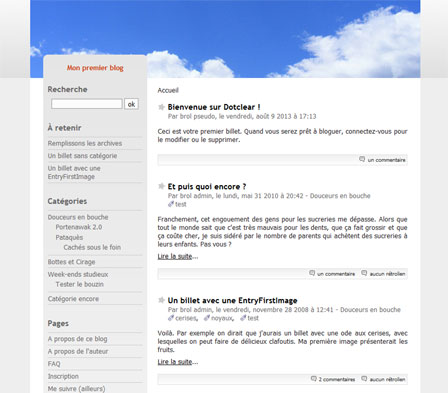
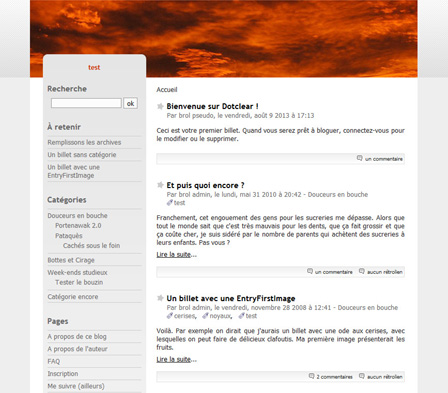
v1.1
cf changelog

diff --git a/tpl/archive_month.html b/tpl/archive_month.html
@@ -1,50 +1,37 @@
-<!DOCTYPE html PUBLIC "-//W3C//DTD XHTML 1.0 Strict//EN"
-"http://www.w3.org/TR/xhtml1/DTD/xhtml1-strict.dtd">
-<html xmlns="http://www.w3.org/1999/xhtml" xml:lang="{{tpl:BlogLanguage}}" lang="{{tpl:BlogLanguage}}">
-<head>
-  <meta http-equiv="Content-Type" content="text/html; charset=UTF-8" />
+{{tpl:extends parent="__layout.html"}}
 
-  <meta name="ROBOTS" content="{{tpl:BlogMetaRobots robots="NOINDEX"}}" />
+<tpl:Block name="head-title">
+	<title>{{tpl:lang Archives}} - {{tpl:ArchiveDate}} - {{tpl:BlogName encode_html="1"}}</title>
+</tpl:Block>
 
-  <title>{{tpl:lang Archives}} - {{tpl:ArchiveDate}} - {{tpl:BlogName encode_html="1"}}</title>
-  <meta name="copyright" content="{{tpl:BlogCopyrightNotice encode_html="1"}}" />
-  <meta name="author" content="{{tpl:BlogEditor encode_html="1"}}" />
-  <meta name="date" scheme="W3CDTF" content="{{tpl:BlogUpdateDate iso8601="1"}}" />
+<tpl:Block name="meta-robots">
+	<meta name="ROBOTS" content="{{tpl:BlogMetaRobots robots="NOINDEX"}}" />
+</tpl:Block>
 
-  <link rel="schema.dc" href="http://purl.org/dc/elements/1.1/" />
-  <meta name="dc.title" lang="{{tpl:BlogLanguage}}" content="{{tpl:lang Archives}} - {{tpl:ArchiveDate}} - {{tpl:BlogName encode_html="1"}}" />
-  <meta name="dc.language" content="{{tpl:BlogLanguage}}" />
-  <meta name="dc.publisher" content="{{tpl:BlogEditor encode_html="1"}}" />
-  <meta name="dc.rights" content="{{tpl:BlogCopyrightNotice encode_html="1"}}" />
-  <meta name="dc.date" scheme="W3CDTF" content="{{tpl:BlogUpdateDate iso8601="1"}}" />
-  <meta name="dc.type" content="text" />
-  <meta name="dc.format" content="text/html" />
+<tpl:Block name="dc-entry">
+	<meta property="dc.title" lang="{{tpl:BlogLanguage}}" content="{{tpl:lang Archives}} - {{tpl:ArchiveDate}} - {{tpl:BlogName encode_html="1"}}" />
+	<meta property="dc.language" content="{{tpl:BlogLanguage}}" />
+	<meta property="dc.date" content="{{tpl:BlogUpdateDate iso8601="1"}}" />
+</tpl:Block>
 
-  <link rel="top" href="{{tpl:BlogURL}}" title="{{tpl:lang Home}}" />
-  <link rel="up" href="{{tpl:BlogArchiveURL}}" title="{{tpl:lang Archives}}" />
-  <link rel="contents" href="{{tpl:BlogArchiveURL}}" title="{{tpl:lang Archives}}" />
+<tpl:Block name="head-linkrel">
+	<link rel="top" href="{{tpl:BlogURL}}" title="{{tpl:lang Home}}" />
+	<link rel="up" href="{{tpl:BlogArchiveURL}}" title="{{tpl:lang Archives}}" />
+	<link rel="contents" href="{{tpl:BlogArchiveURL}}" title="{{tpl:lang Archives}}" />
 
-  <tpl:ArchiveNext><link rel="next" href="{{tpl:ArchiveURL}}"
-  title="{{tpl:ArchiveDate encode_html="1"}}" /></tpl:ArchiveNext>
-  <tpl:ArchivePrevious><link rel="prev" href="{{tpl:ArchiveURL}}"
-  title="{{tpl:ArchiveDate encode_html="1"}}" /></tpl:ArchivePrevious>
+	<tpl:ArchiveNext><link rel="next" href="{{tpl:ArchiveURL}}"
+	title="{{tpl:ArchiveDate encode_html="1"}}" /></tpl:ArchiveNext>
+	<tpl:ArchivePrevious><link rel="prev" href="{{tpl:ArchiveURL}}"
+	title="{{tpl:ArchiveDate encode_html="1"}}" /></tpl:ArchivePrevious>
 
-  <tpl:Entries no_content="1">
-  <link rel="chapter" href="{{tpl:EntryURL}}" title="{{tpl:EntryTitle encode_html="1"}}" />
-  </tpl:Entries>
+	<tpl:Entries no_content="1">
+		<link rel="chapter" href="{{tpl:EntryURL}}" title="{{tpl:EntryTitle encode_html="1"}}" />
+	</tpl:Entries>
+</tpl:Block>
 
-  {{tpl:include src="_head.html"}}
-</head>
+<tpl:Block name="body-tag"><body class="dc-archive-month"></tpl:Block>
 
-<body class="dc-archive-month">
-<div id="page">
-{{tpl:include src="_top.html"}}
-
-<div id="wrapper">
-
-<div id="main">
-  <div id="content">
-  
+<tpl:Block name="main-content">
    <div id="content-info">
     <p id="navlinks">
     <tpl:ArchivePrevious><a href="{{tpl:ArchiveURL}}" class="prev">&#171; {{tpl:ArchiveDate encode_html="1"}}</a>
@@ -57,30 +44,11 @@
   </div>
   
   <tpl:Entries no_content="1">
-    <ul id="p{{tpl:EntryID}}" class="arch-post" lang="{{tpl:EntryLang}}" xml:lang="{{tpl:EntryLang}}">
-      <li class="arch-title"><span class="date-number">{{tpl:EntryDate format="%d"}} :: </span><a href="{{tpl:EntryURL}}" title="{{tpl:lang Continue reading}} {{tpl:EntryTitle encode_html="1"}}">{{tpl:EntryTitle encode_html="1"}}</a></li>
+    <ul id="p{{tpl:EntryID}}" class="arch-post" lang="{{tpl:EntryLang}}">
+      <li class="arch-title"><span class="date-number">{{tpl:EntryDate format="%d"}} :: </span><a href="{{tpl:EntryURL}}" title="{{tpl:lang Read}} {{tpl:EntryTitle encode_html="1"}}">{{tpl:EntryTitle encode_html="1"}}</a></li>
       <li class="arch-info">{{tpl:lang By}} {{tpl:EntryAuthorLink}}<tpl:EntryIf has_category="1">, {{tpl:lang in}} {{tpl:EntryCategory encode_html="1"}}</tpl:EntryIf></li>
       <tpl:EntryTags><tpl:TagsHeader><li></tpl:TagsHeader><span class="arch-tag">{{tpl:TagID}}</span><tpl:TagsFooter></li></tpl:TagsFooter></tpl:EntryTags>
       <li class="arch-info-co"><tpl:EntryIf show_comments="1">{{tpl:EntryCommentCount}}</tpl:EntryIf><tpl:EntryIf show_pings="1"> - {{tpl:EntryTrackbackCount}}</tpl:EntryIf></li>
     </ul>
   </tpl:Entries>
-
-</div>
-</div> <!-- End #main -->
-
-<div id="sidebar">
-  <div id="blognav">
-    {{tpl:Widgets type="nav"}}
-  </div> <!-- End #blognav -->
-  
-  <div id="blogextra">
-    {{tpl:Widgets type="extra"}}
-  </div> <!-- End #blogextra -->
-</div>
-
-</div> <!-- End #wrapper -->
-
-{{tpl:include src="_footer.html"}}
-</div> <!-- End #page -->
-</body>
-</html>
+</tpl:Block>

diff --git a/tpl/archive_day.html b/tpl/archive_day.html
@@ -1,50 +1,37 @@
-<!DOCTYPE html PUBLIC "-//W3C//DTD XHTML 1.0 Strict//EN"
-	"http://www.w3.org/TR/xhtml1/DTD/xhtml1-strict.dtd">
-<html xmlns="http://www.w3.org/1999/xhtml" xml:lang="{{tpl:BlogLanguage}}" lang="{{tpl:BlogLanguage}}">
-<head>
-	<meta http-equiv="Content-Type" content="text/html; charset=UTF-8" />
-	<meta name="ROBOTS" content="{{tpl:BlogMetaRobots robots="NOINDEX"}}" />
+{{tpl:extends parent="__layout.html"}}
 
+<tpl:Block name="head-title">
 	<title>{{tpl:lang Archives}} - {{tpl:ArchiveDate}} - {{tpl:BlogName encode_html="1"}}</title>
-	<meta name="copyright" content="{{tpl:BlogCopyrightNotice encode_html="1"}}" />
-	<meta name="author" content="{{tpl:BlogEditor encode_html="1"}}" />
-	<meta name="date" scheme="W3CDTF" content="{{tpl:BlogUpdateDate iso8601="1"}}" />
+</tpl:Block>
 
-	<link rel="schema.dc" href="http://purl.org/dc/elements/1.1/" />
-	<meta name="dc.title" lang="{{tpl:BlogLanguage}}" content="{{tpl:lang Archives}} - {{tpl:ArchiveDate}} - {{tpl:BlogName encode_html="1"}}" />
-	<meta name="dc.language" content="{{tpl:BlogLanguage}}" />
-	<meta name="dc.publisher" content="{{tpl:BlogEditor encode_html="1"}}" />
-	<meta name="dc.rights" content="{{tpl:BlogCopyrightNotice encode_html="1"}}" />
-	<meta name="dc.date" scheme="W3CDTF" content="{{tpl:BlogUpdateDate iso8601="1"}}" />
-	<meta name="dc.type" content="text" />
-	<meta name="dc.format" content="text/html" />
+<tpl:Block name="meta-robots">
+	<meta name="ROBOTS" content="{{tpl:BlogMetaRobots robots="NOINDEX"}}" />
+</tpl:Block>
 
+<tpl:Block name="dc-entry">
+	<meta property="dc.title" lang="{{tpl:BlogLanguage}}" content="{{tpl:lang Archives}} - {{tpl:ArchiveDate}} - {{tpl:BlogName encode_html="1"}}" />
+	<meta property="dc.language" content="{{tpl:BlogLanguage}}" />
+	<meta property="dc.date" content="{{tpl:BlogUpdateDate iso8601="1"}}" />
+</tpl:Block>
+
+<tpl:Block name="head-linkrel">
 	<link rel="top" href="{{tpl:BlogURL}}" title="{{tpl:lang Home}}" />
 	<link rel="up" href="{{tpl:BlogArchiveURL}}" title="{{tpl:lang Archives}}" />
 	<link rel="contents" href="{{tpl:BlogArchiveURL}}" title="{{tpl:lang Archives}}" />
 
-<tpl:ArchiveNext>
-	<link rel="next" href="{{tpl:ArchiveURL}}" title="{{tpl:ArchiveDate encode_html="1"}}" />
-</tpl:ArchiveNext>
-<tpl:ArchivePrevious>
-	<link rel="previous" href="{{tpl:ArchiveURL}}" title="{{tpl:ArchiveDate encode_html="1"}}" />
-</tpl:ArchivePrevious>
-<tpl:Entries no_content="1">
-	<link rel="chapter" href="{{tpl:EntryURL}}" title="{{tpl:EntryTitle encode_html="1"}}" />
-</tpl:Entries>
+	<tpl:ArchiveNext><link rel="next" href="{{tpl:ArchiveURL}}"
+	title="{{tpl:ArchiveDate encode_html="1"}}" /></tpl:ArchiveNext>
+	<tpl:ArchivePrevious><link rel="prev" href="{{tpl:ArchiveURL}}"
+	title="{{tpl:ArchiveDate encode_html="1"}}" /></tpl:ArchivePrevious>
 
-{{tpl:include src="_head.html"}}
-</head>
+	<tpl:Entries no_content="1">
+		<link rel="chapter" href="{{tpl:EntryURL}}" title="{{tpl:EntryTitle encode_html="1"}}" />
+	</tpl:Entries>
+</tpl:Block>
 
-<body class="dc-archive-day">
-<div id="page">
-{{tpl:include src="_top.html"}}
+<tpl:Block name="body-tag"><body class="dc-archive-day"></tpl:Block>
 
-<div id="wrapper">
-
-<div id="main">
-  <div id="content">
-  
+<tpl:Block name="main-content">
   <div id="content-info">
     <p id="navlinks">
     <tpl:ArchivePrevious><a href="{{tpl:ArchiveURL}}" class="prev" title="{{tpl:ArchiveDate encode_html="1"}}">&#171; {{tpl:ArchiveDate encode_html="1"}}</a>
@@ -59,7 +46,7 @@
   <tpl:Entries>
     <div class="post {{tpl:EntryIfOdd}} {{tpl:EntryIfFirst}}">
     
-    <h2 id="p{{tpl:EntryID}}" class="post-title" lang="{{tpl:EntryLang}}" xml:lang="{{tpl:EntryLang}}"><a
+    <h2 id="p{{tpl:EntryID}}" class="post-title" lang="{{tpl:EntryLang}}"><a
     href="{{tpl:EntryURL}}">{{tpl:EntryTitle encode_html="1"}}</a></h2>
     
     <p class="post-info">{{tpl:lang By}} {{tpl:EntryAuthorLink}}
@@ -83,7 +70,7 @@
       <div class="post-content">{{tpl:EntryExcerpt}}</div>
       <p class="read-it"><a href="{{tpl:EntryURL}}"
       title="{{tpl:lang Continue reading}} {{tpl:EntryTitle encode_html="1"}}">{{tpl:lang Continue
-      reading}}</a>...</p>
+      reading}}</a><span class="readmore-ellipsis">...</span></p>
     </tpl:EntryIf>
     
     <!-- # Entry without excerpt -->
@@ -94,7 +81,6 @@
 		<!-- # --BEHAVIOR-- publicEntryAfterContent -->
 		{{tpl:SysBehavior behavior="publicEntryAfterContent"}}
 
-    
     <!-- # Number of comments, trackbacks and attachments -->
     <tpl:EntryIf operator="or" show_comments="1" show_pings="1" has_attachment="1">
       <p class="post-info-co">
@@ -121,22 +107,4 @@
       </tpl:Pagination>
     </tpl:EntriesFooter>
   </tpl:Entries>
-  </div>
-</div> <!-- End #main -->
-
-<div id="sidebar">
-  <div id="blognav">
-    {{tpl:Widgets type="nav"}}
-  </div> <!-- End #blognav -->
-  
-  <div id="blogextra">
-    {{tpl:Widgets type="extra"}}
-  </div> <!-- End #blogextra -->
-</div>
-
-</div> <!-- End #wrapper -->
-
-{{tpl:include src="_footer.html"}}
-</div> <!-- End #page -->
-</body>
-</html>
+</tpl:Block>

diff --git a/css/1000.css b/css/1000.css
@@ -17,6 +17,7 @@
 .round0 { background : transparent url(../img/1000/round0.jpg) no-repeat top left; }
 .round1 { background : transparent url(../img/1000/round1.jpg) no-repeat top left; }
 .round2 { background : transparent url(../img/1000/round2.jpg) no-repeat top left; }
+.round3 { background : transparent url(../img/1000/round3.jpg) no-repeat top left; }
 #content {
   width: 730px;
 }

diff --git a/css/750.css b/css/750.css
@@ -17,6 +17,7 @@
 .round0 { background : transparent url(../img/750/round0.jpg) no-repeat top left; }
 .round1 { background : transparent url(../img/750/round1.jpg) no-repeat top left; }
 .round2 { background : transparent url(../img/750/round2.jpg) no-repeat top left; }
+.round3 { background : transparent url(../img/750/round3.jpg) no-repeat top left; }
 #content {
   width: 480px;
 }

diff --git a/tpl/user_head.html b/tpl/user_head.html
@@ -1,6 +1,6 @@
 <script type="text/javascript">
 $(document).ready(function() {
-var round = parseInt(Math.random()*3);
+var round = parseInt(Math.random()*4);
 	$('#banner').addClass('round'+round);
 });
 </script>

diff --git a/_config.php b/_config.php
@@ -68,7 +68,7 @@ if (!empty($_POST))
 
 # Width type
 echo
-'<div class="fieldset"><h4>'.__('Customizations').'</h4>'.
+'<div class="fieldset"><h4>'.__('Customization').'</h4>'.
 '<p class="field"><label>'.__('Display width:').'</label>'.
 form::combo('RougeCiel3_width',$RougeCiel3_width_combo,$my_width).
 '</p>'.

diff --git a/_define.php b/_define.php
@@ -13,7 +13,7 @@ $this->registerModule(
 	/* Name */			    "Rouge Ciel 3",
 	/* Description*/		"Etoilé pour blog bien inspiré",
 	/* Author */			  "Pierre Van Glabeke",
-	/* Version */			  '1.0',
+	/* Version */			  '1.1',
 	array(
 		'type'	 =>	'theme',
 		'tplset' => 'mustek'

diff --git a/README.md b/README.md
@@ -9,5 +9,5 @@ Dimensions pour les images de bannière :
 Si vous voulez en ajouter d'autres, il est impératif de se conformer aux règles suivantes :
 - les nommer de manière identique "roundX.ext" où X est un chiffre
 - en cas d'ajout (et non de remplacement), il faut modifier :
-  * le fichier tpl/user_head.html et indiquer en ligne 3 (```var round = parseInt(Math.random()*3);```) le nombre total d'image de bannière (3 par défaut)
+  * le fichier tpl/user_head.html et indiquer en ligne 3 (```var round = parseInt(Math.random()*4);```) le nombre total d'image de bannière (4 par défaut)
   * le fichier css correspondant à la largeur de page choisie (css/750.css ou css/1000.css) en prenant exemple sur la déclaration css en ligne 17 : ```.round0 { background : transparent url(../img/750/round0.jpg) no-repeat top left; }```
